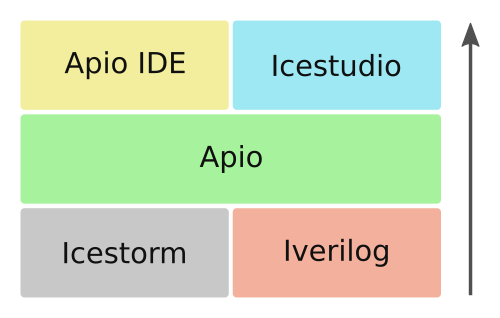
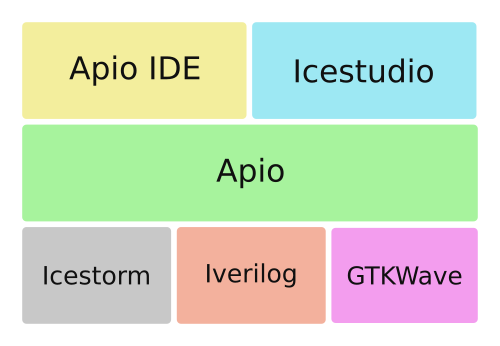
Update demo-stack image

Changed region(s): [[0.03, 0.0566, 0.96, 0.9623], [0.12, 0.1415, 0.42, 0.2547], [0.39, 0.4528, 0.57, 0.5377]]

diff --git a/2016-10-Python-uControllers-and-FPGAs/presentation/slides/end.md b/2016-10-Python-uControllers-and-FPGAs/presentation/slides/end.md
@@ -20,7 +20,7 @@ A community to **share knowledge** about **open FPGAs**
 ![](resources/7.end/FPGAwars-logo-min.png)
 
 * Language: spanish
-* Members: ~180
+* Members: ~200
 * Website: http://FPGAwars.github.io
 * GitHub: https://github.com/FPGAwars
 

diff --git a/2016-10-Python-uControllers-and-FPGAs/presentation/slides/content.md b/2016-10-Python-uControllers-and-FPGAs/presentation/slides/content.md
@@ -619,6 +619,6 @@ set_io LED 99
 
 ---
 
-# Demo
+# Stack of tools
 
 ![](resources/5.python/demo-stack.png)
